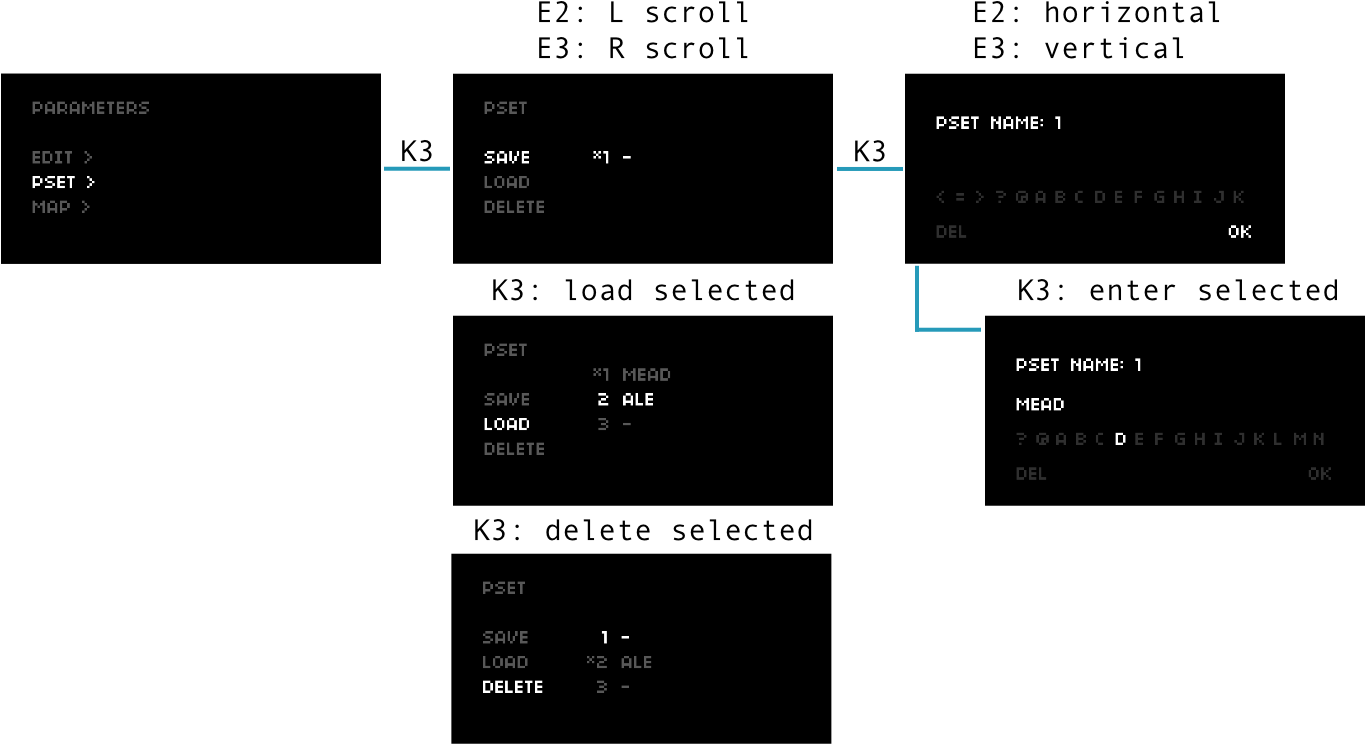
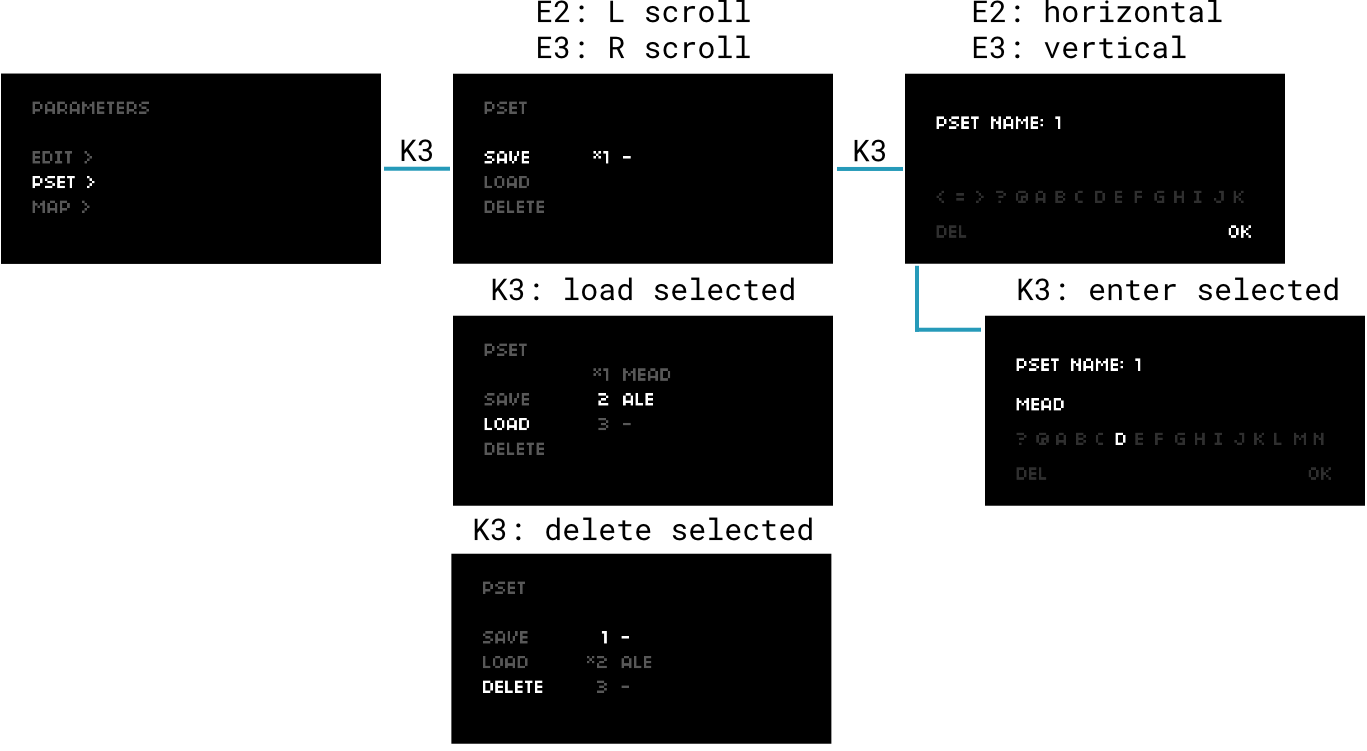
++roboto on images, better legend + image descriptions

diff --git a/norns/new-play.md b/norns/new-play.md
@@ -8,26 +8,23 @@ has_children: false
 
 <!--# play-->
 
+nav: [awake](#awake) | [levels](#levels) | [parameters](#parameters) | [tape](#tape) | [select](#select)
+
 ## awake
 
 After norns powers up, it will launch the last script that was loaded. On a fresh norns, this will be *awake*, a set of looping sequencers.
 
 Your first impulse might be to press buttons and turn the knobs — follow it!
 
-Just to make sure we talk about the *same* buttons and knobs, here's how things are laid out on a stock norns:
+Just to make sure we talk about the *same* buttons and knobs, here's how things are laid out on a stock norns and shield:
 
-![](image/play-images/norns-legend.png)
-<div align="center">*figure 1: stock norns*</div>
-
-And here's how they're laid out on a shield:
-
-![](image/play-images/norns-shield-legend.png)
-<div align="center">*figure 2: norns shield*</div>
+![](image/play-images/norns-legends.png)
+*[figure 1: stock norns and shield legend](image/play-images/norns-legends.png)*
 
 In any norns script, a quick tap of **K1** will toggle between the playable interface and the menus interface. If you get caught in the menus, just tap **K1** to get back to the script.
 
 ![](image/play-images/menu-nav.png)
-<div align="center">*figure 3: interface layers*</div>
+[*figure 2: interface layers*](image/play-images/menu-nav.png)
 
 Before we dive into menus, here's a quick guide to exploring *awake*.
 
@@ -68,7 +65,7 @@ To begin our menu dive, let's adjust the audio levels.
 Tap **K1** to come up from the script layer to the menus layer and turn **E1** counter-clockwise until you see pairs of vertical sliders.
 
 ![](image/play-images/menu-levels.png)
-<div align="center">*figure 4: setting levels*</div>
+[*figure 3: setting levels*](image/play-images/menu-levels.png)
 
 - **K2 / K3**: select previous pair / select next pair
 - **E2 / E3**: adjust left level / adjust right level
@@ -90,7 +87,7 @@ The horizontal notch represents unity. All levels can go to +6dB.
 Use **E1** to navigate to PARAMETERS, and enter the EDIT menu with **K3**.
 
 ![](image/play-images/menu-params_edit.png)
-<div align="center">*figure 5: editing parameters*</div>
+[*figure 4: editing parameters*](image/play-images/menu-params_edit.png)
 
 At the top of this menu are controls for each component of the global audio chain:
 
@@ -110,7 +107,7 @@ Scrolling down further, we find some of the script's parameters. These are chose
 To recall and build on the changes you've made in a future session, we can save all the parameters as a PSET (preset).
 
 ![](image/play-images/menu-params_pset.png)
-<div align="center">*figure 6: saving parameters / PSET*</div>
+[*figure 5: saving parameters / PSET*](image/play-images/menu-params_pset.png)
 
 
 Use **E2** to navigate down the left column of the PSET screen.  
@@ -144,7 +141,7 @@ These changing melodies are lovely, but they're a bit removed from the natural w
 Jump to the menus interface and use **E1** to navigate to the tape screen.
 
 ![](image/play-images/menu-tape_play.png)
-<div align="center">*figure 7: playing a tape*</div>
+[*figure 6: playing a tape*](image/play-images/menu-tape_play.png)
 
 **select loop**
 
@@ -171,13 +168,13 @@ This all sounds rather lovely -- perhaps you'd like to record it?
 On the tape screen, press **K2** to switch between the PLAY and REC lanes.
 
 ![](image/play-images/menu-tape_rec.png)
-<div align="center">*figure 8: recording a tape*</div>
+[*figure 7: recording a tape*](image/play-images/menu-tape_rec.png)
 
 **record**
 
 - with the REC lane selected, press **K3** to open the naming dialogue
 - name your tape, or feel free to use the pre-populated counter
-  - see *figure 6* for tips on navigating the naming dialogue
+  - see [*figure 5*](image/play-images/menu-params_pset.png) for tips on navigating the naming dialogue
 - when you arrive back at the tape menu, press K3 to record a stereo 48khz .wav file
 
 **stop recording**
@@ -197,7 +194,7 @@ Now that we have a nice *awake* session under our belts, let's explore some of t
 Tap **K1** and navigate to the *home* menu, then press **K3** on SELECT:
 
 ![](image/play-images/menu-sel.png)
-<div align="center">*figure 9: selecting a script*</div>
+[*figure 8: selecting a script*](image/play-images/menu-sel.png)
 
 - use **E2** to scroll through installed scripts
 - press **K3** to open a description of the selected script
